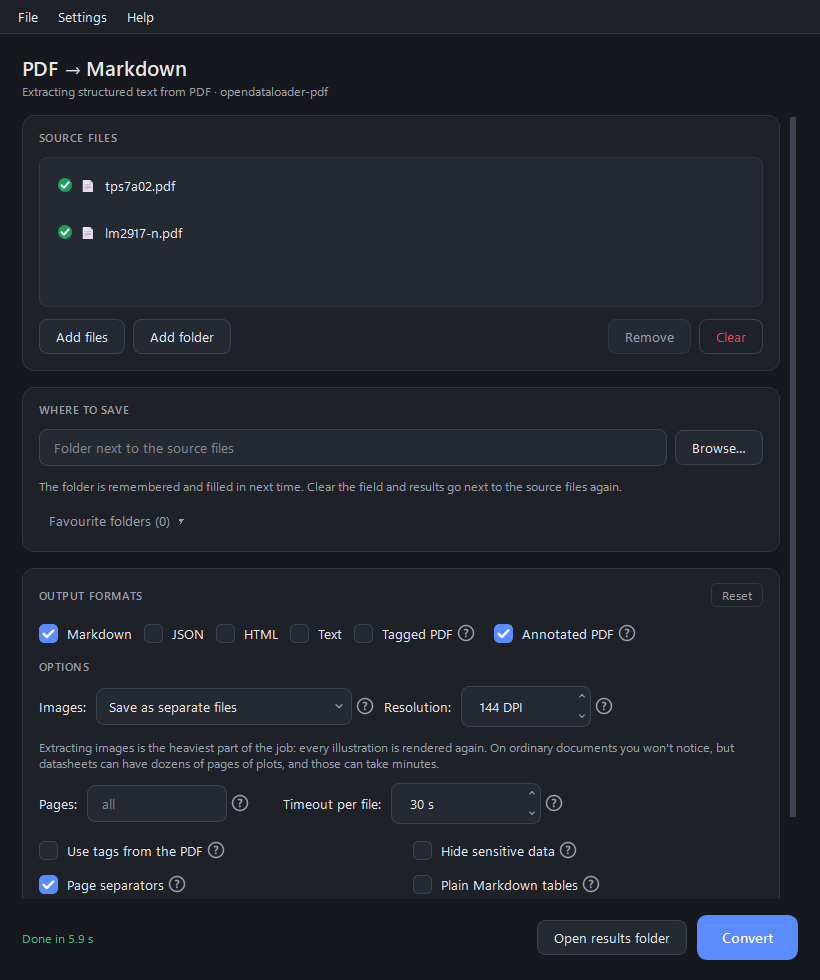
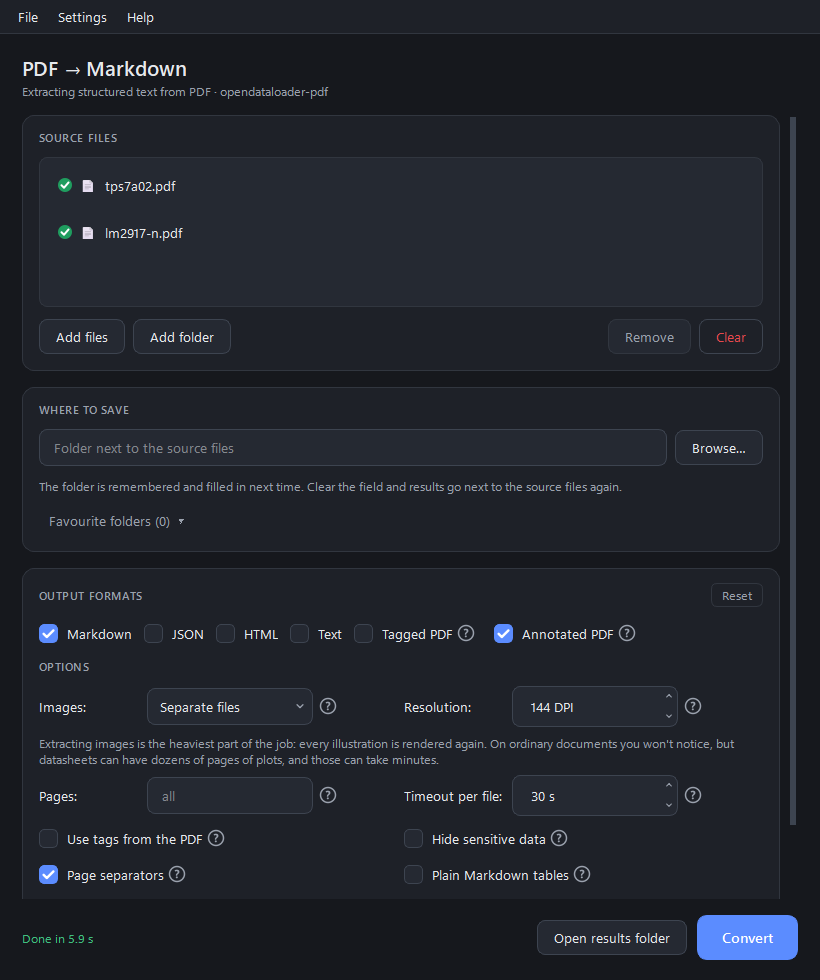
Options in two even columns with equal-sized boxes
Options and More options share one grid: label, box, (?) | label, box, (?).
Every box is 166 px, the label column takes the longest label (wrapping
past 116 px), and the checkboxes start where the labels start, so the two
sections line up with each other. Image choices got shorter names to fit
("Separate files", "In the document", "Don't save"); Polish, French,
Spanish and Italian show English for them until the pre-release pass.
Minimum window width 720 -> 760 to hold both columns in every language.

Changed region(s): [[0.0305, 0.7041, 0.8841, 0.9184], [0.8232, 0.7959, 0.8537, 0.8265]]

diff --git a/gui.py b/gui.py
@@ -534,6 +534,54 @@ def with_help(widget: QWidget, key: str) -> QWidget:
     return box
 
 
+# Every setting's box is this wide, in Options and in More options alike.
+FIELD_WIDTH = 166
+# Label column: as wide as the longest label, but no wider than this - a
+# longer one wraps onto a second line instead of pushing the boxes apart.
+LABEL_MAX_WIDTH = 116
+
+
+def settings_grid(rows: list, checks: list, labels: list[QLabel]) -> QGridLayout:
+    """Two even columns: label, box, (?) | label, box, (?).
+
+    `rows` holds pairs of (label key, widget, help key) - either may be None -
+    or a bare widget that spans the whole width. `checks` are (checkbox, help
+    key) pairs laid out two to a line, each starting where the labels start.
+    The labels are collected so the window can give them all one width, which
+    lines Options and More options up with each other.
+    """
+    grid = QGridLayout()
+    grid.setContentsMargins(0, 0, 0, 0)
+    grid.setHorizontalSpacing(6)
+    grid.setVerticalSpacing(8)
+    # 0 label, 1 box, 2 (?), 3 gap between the halves, 4 label, 5 box, 6 (?)
+    grid.setColumnMinimumWidth(3, 16)
+    grid.setColumnStretch(3, 1)
+    grid.setColumnStretch(7, 1)
+    row = 0
+    for item in rows:
+        if isinstance(item, QWidget):
+            grid.addWidget(item, row, 0, 1, 8)
+            row += 1
+            continue
+        for side, cell in enumerate(item):
+            if cell is None:
+                continue
+            key, widget, help_key = cell
+            base = side * 4
+            label = QLabel(tr(key))
+            label.setWordWrap(True)
+            labels.append(label)
+            widget.setFixedWidth(FIELD_WIDTH)
+            grid.addWidget(label, row, base)
+            grid.addWidget(widget, row, base + 1)
+            grid.addWidget(HelpMark(tr(help_key)), row, base + 2)
+        row += 1
+    for i, (box, help_key) in enumerate(checks):
+        grid.addWidget(with_help(box, help_key), row + i // 2, (i % 2) * 4, 1, 3)
+    return grid
+
+
 def eye_icon(open_: bool) -> QIcon:
     """The password field's show/hide button: an eye, struck through or not."""
     size = 32
@@ -570,21 +618,6 @@ def reset_button(tooltip_key: str) -> QPushButton:
     button.setObjectName("Small")
     button.setToolTip(tr(tooltip_key))
     return button
-
-
-def field_row(*pairs, spacing: int = 10) -> QHBoxLayout:
-    """A row of (label, widget) pairs; a bare widget is added as-is."""
-    row = QHBoxLayout()
-    row.setSpacing(spacing)
-    for item in pairs:
-        if isinstance(item, tuple):
-            text, widget = item
-            row.addWidget(QLabel(text))
-            row.addWidget(widget)
-        else:
-            row.addWidget(item)
-    row.addStretch()
-    return row
 
 
 class AboutDialog(QDialog):
@@ -672,7 +705,7 @@ class MainWindow(QWidget):
         super().__init__()
         self.setObjectName("Root")
         self.setWindowTitle(APP_NAME)
-        self.setMinimumWidth(720)
+        self.setMinimumWidth(760)
 
         self.inputs: list[str] = []
         self.thread: QThread | None = None
@@ -704,6 +737,7 @@ class MainWindow(QWidget):
         self.update_release: dict | None = None
         self._guide: GuideDialog | None = None
         self.favorites = load_favorites()
+        self._form_labels: list[QLabel] = []
         self._build_ui()
         # What every option looks like untouched - the "Reset" buttons go back
         # to this. Taken before the saved settings are applied on top.
@@ -714,6 +748,7 @@ class MainWindow(QWidget):
         self._restore_settings()
         self._sync_format_options()
         self._apply_theme()
+        self._align_labels()
         # "As in Windows" keeps following Windows while the program is open.
         hints = QGuiApplication.styleHints()
         if hasattr(hints, "colorSchemeChanged"):
@@ -764,7 +799,7 @@ class MainWindow(QWidget):
         scroll.setWidget(body)
         scroll.setWidgetResizable(True)
         scroll.setFrameShape(QFrame.Shape.NoFrame)
-        # Layouts are made to fit 720 px in every language; should a future
+        # Layouts are made to fit 760 px in every language; should a future
         # translation still overflow, a scroll bar beats silently clipped
         # buttons.
         scroll.setHorizontalScrollBarPolicy(Qt.ScrollBarPolicy.ScrollBarAsNeeded)
@@ -949,10 +984,9 @@ class MainWindow(QWidget):
 
         # -- images: the single setting that decides how long a datasheet takes
         self.image_mode = QComboBox()
-        self.image_mode.addItem(tr("images.external"), "external")
-        self.image_mode.addItem(tr("images.embedded"), "embedded")
-        self.image_mode.addItem(tr("images.off"), "off")
-        self.image_mode.setFixedWidth(256)
+        self.image_mode.addItem(tr("images.files"), "external")
+        self.image_mode.addItem(tr("images.inside"), "embedded")
+        self.image_mode.addItem(tr("images.none"), "off")
         self.image_mode.currentIndexChanged.connect(self._toggle_image_dpi)
 
         # Worth trying before turning images off entirely: 96 DPI keeps the
@@ -961,18 +995,15 @@ class MainWindow(QWidget):
         self.image_dpi.setRange(36, 600)
         self.image_dpi.setValue(IMAGE_DPI_DEFAULT)
         self.image_dpi.setSuffix(" DPI")
-        self.image_dpi.setFixedWidth(130)
 
         self.pages_edit = QLineEdit()
         self.pages_edit.setPlaceholderText(tr("pages.placeholder"))
-        self.pages_edit.setFixedWidth(140)
 
         self.timeout_spin = QSpinBox()
         self.timeout_spin.setRange(0, 36000)
         self.timeout_spin.setValue(30)
         self.timeout_spin.setSuffix(tr("timeout.suffix"))
         self.timeout_spin.setSpecialValueText(tr("timeout.none"))
-        self.timeout_spin.setFixedWidth(150)
 
         self.opt_struct = QCheckBox(tr("struct.label"))
         self.opt_sanitize = QCheckBox(tr("sanitize.label"))
@@ -983,16 +1014,22 @@ class MainWindow(QWidget):
         for box in self.format_boxes.values():
             box.toggled.connect(self._sync_format_options)
 
-        grid = QGridLayout()
-        grid.setHorizontalSpacing(24)
-        grid.setVerticalSpacing(6)
-        grid.setContentsMargins(0, 0, 0, 0)
-        grid.addWidget(with_help(self.opt_struct, "struct.tooltip"), 0, 0)
-        grid.addWidget(with_help(self.opt_sanitize, "sanitize.tooltip"), 0, 1)
-        grid.addWidget(with_help(self.opt_page_sep, "page_sep.tooltip"), 1, 0)
-        grid.addWidget(with_help(self.opt_plain_md, "plain_md.tooltip"), 1, 1)
-        grid.setColumnStretch(0, 1)
-        grid.setColumnStretch(1, 1)
+        grid = settings_grid(
+            [
+                (("images.label", self.image_mode, "images.tooltip"),
+                 ("dpi.label", self.image_dpi, "dpi.tooltip")),
+                hint(tr("images.hint")),
+                (("pages.label", self.pages_edit, "pages.tooltip"),
+                 ("timeout.label", self.timeout_spin, "timeout.tooltip")),
+            ],
+            [
+                (self.opt_struct, "struct.tooltip"),
+                (self.opt_sanitize, "sanitize.tooltip"),
+                (self.opt_page_sep, "page_sep.tooltip"),
+                (self.opt_plain_md, "plain_md.tooltip"),
+            ],
+            self._form_labels,
+        )
 
         self.more_btn = QPushButton(tr("advanced.button") + "  ▾")
         self.more_btn.setObjectName("Ghost")
@@ -1011,15 +1048,6 @@ class MainWindow(QWidget):
             section_row(tr("formats.section"), self.reset_main_btn),
             formats,
             section(tr("options.section")),
-            field_row(
-                (tr("images.label"), with_help(self.image_mode, "images.tooltip")),
-                (tr("dpi.label"), with_help(self.image_dpi, "dpi.tooltip")),
-            ),
-            hint(tr("images.hint")),
-            field_row(
-                (tr("pages.label"), with_help(self.pages_edit, "pages.tooltip")),
-                (tr("timeout.label"), with_help(self.timeout_spin, "timeout.tooltip")),
-            ),
             grid,
             more_row,
             self._advanced_panel(),
@@ -1033,34 +1061,28 @@ class MainWindow(QWidget):
         self.reading_order = QComboBox()
         self.reading_order.addItem("xycut", "xycut")
         self.reading_order.addItem(tr("reading_order.off"), "off")
-        self.reading_order.setMinimumWidth(120)
 
         self.table_method = QComboBox()
         self.table_method.addItem(tr("tables.default"), "default")
         self.table_method.addItem(tr("tables.cluster"), "cluster")
-        self.table_method.setMinimumWidth(120)
 
         self.image_format = QComboBox()
         self.image_format.addItem("PNG", "png")
         self.image_format.addItem("JPEG", "jpeg")
-        self.image_format.setMinimumWidth(120)
 
         self.threads_spin = QSpinBox()
         self.threads_spin.setRange(1, max(1, os.cpu_count() or 1))
         self.threads_spin.setValue(1)
-        self.threads_spin.setMinimumWidth(120)
 
         self.space_ratio = QDoubleSpinBox()
         self.space_ratio.setRange(0.01, 1.00)
         self.space_ratio.setSingleStep(0.01)
         self.space_ratio.setDecimals(2)
         self.space_ratio.setValue(SPACE_RATIO_DEFAULT)
-        self.space_ratio.setMinimumWidth(120)
 
         self.password_edit = QLineEdit()
         self.password_edit.setEchoMode(QLineEdit.EchoMode.Password)
         self.password_edit.setPlaceholderText(tr("password.placeholder"))
-        self.password_edit.setMinimumWidth(120)
         self.password_eye = self.password_edit.addAction(
             eye_icon(open_=True), QLineEdit.ActionPosition.TrailingPosition
         )
@@ -1074,56 +1096,34 @@ class MainWindow(QWidget):
         self.hybrid = QComboBox()
         self.hybrid.addItem(tr("hybrid.off"), None)
         self.hybrid.addItem("docling-fast", "docling-fast")
-        self.hybrid.setMinimumWidth(120)
         self.hybrid.currentIndexChanged.connect(self._toggle_hybrid)
 
         self.hybrid_url = QLineEdit()
         self.hybrid_url.setPlaceholderText(HYBRID_DEFAULT_URL)
-        self.hybrid_url.setMinimumWidth(120)
         self.hybrid_url.setEnabled(False)
 
-        grid = QGridLayout(panel)
-        grid.setContentsMargins(0, 0, 0, 0)
-        grid.setHorizontalSpacing(14)
-        grid.setVerticalSpacing(8)
-        rows = [
-            (tr("reading_order.label"), self.reading_order, "reading_order.tooltip",
-             tr("tables.label"), self.table_method, "tables.tooltip"),
-            (tr("image_format.label"), self.image_format, "image_format.tooltip",
-             tr("threads.label"), self.threads_spin, "threads.tooltip"),
-            (tr("password.label"), self.password_edit, "password.tooltip",
-             tr("hybrid.label"), self.hybrid, "hybrid.tooltip"),
-            (tr("space_ratio.label"), self.space_ratio, "space_ratio.tooltip",
-             tr("hybrid_url.label"), self.hybrid_url, "hybrid_url.tooltip"),
-        ]
-        for r, (l1, w1, h1, l2, w2, h2) in enumerate(rows):
-            grid.addWidget(QLabel(l1), r, 0)
-            grid.addWidget(with_help(w1, h1), r, 1)
-            grid.addWidget(QLabel(l2), r, 2)
-            grid.addWidget(with_help(w2, h2), r, 3)
-        grid.setColumnStretch(4, 1)
-
-        # Fields give way to long labels rather than push the card past the
-        # window: French and Spanish labels run a good third longer.
-        for field in (w for row in rows for w in (row[1], row[4])):
-            field.setMaximumWidth(200)
-
-        # Two columns, like the checkboxes above: three in a row ran past the
-        # window in the longer languages.
-        checks = QGridLayout()
-        checks.setHorizontalSpacing(24)
-        checks.setVerticalSpacing(6)
-        for i, (box, key) in enumerate(
-            (
+        grid = settings_grid(
+            [
+                (("reading_order.label", self.reading_order, "reading_order.tooltip"),
+                 ("tables.label", self.table_method, "tables.tooltip")),
+                (("image_format.label", self.image_format, "image_format.tooltip"),
+                 ("threads.label", self.threads_spin, "threads.tooltip")),
+                (("password.label", self.password_edit, "password.tooltip"),
+                 ("hybrid.label", self.hybrid, "hybrid.tooltip")),
+                (("space_ratio.label", self.space_ratio, "space_ratio.tooltip"),
+                 ("hybrid_url.label", self.hybrid_url, "hybrid_url.tooltip")),
+            ],
+            [
                 (self.opt_line_breaks, "line_breaks.tooltip"),
                 (self.opt_header_footer, "header_footer.tooltip"),
                 (self.opt_strikethrough, "strikethrough.tooltip"),
-            )
-        ):
-            checks.addWidget(with_help(box, key), i // 2, i % 2)
-        checks.setColumnStretch(0, 1)
-        checks.setColumnStretch(1, 1)
-        grid.addLayout(checks, len(rows), 0, 1, 5)
+            ],
+            self._form_labels,
+        )
+        outer = QVBoxLayout(panel)
+        outer.setContentsMargins(0, 0, 0, 0)
+        outer.setSpacing(8)
+        outer.addLayout(grid)
 
         self.reset_advanced_btn = reset_button("reset.advanced_tooltip")
         self.reset_advanced_btn.clicked.connect(
@@ -1132,7 +1132,7 @@ class MainWindow(QWidget):
         reset_row = QHBoxLayout()
         reset_row.addStretch()
         reset_row.addWidget(self.reset_advanced_btn)
-        grid.addLayout(reset_row, len(rows) + 1, 0, 1, 5)
+        outer.addLayout(reset_row)
         return panel
 
     def _output_card(self) -> QFrame:
@@ -1705,6 +1705,18 @@ class MainWindow(QWidget):
     def _toggle_advanced(self, shown: bool) -> None:
         self.advanced.setVisible(shown)
         self.more_btn.setText(tr("advanced.button") + ("  ▴" if shown else "  ▾"))
+
+    def _align_labels(self) -> None:
+        """One label width for both grids, so Options and More options line
+        up. Measured with the styled font - the stylesheet sets the size, so
+        this has to come after the theme is applied."""
+        widths = []
+        for label in self._form_labels:
+            label.ensurePolished()
+            widths.append(label.fontMetrics().horizontalAdvance(label.text()))
+        width = min(LABEL_MAX_WIDTH, max(widths) + 2)
+        for label in self._form_labels:
+            label.setFixedWidth(width)
 
     def _sync_format_options(self, *_) -> None:
         """Grey out what the ticked formats would ignore."""

diff --git a/tests/test_i18n.py b/tests/test_i18n.py
@@ -91,7 +91,7 @@ def test_window_builds_in_every_language(qapp, settings_file, code):
     try:
         assert w.run_btn.text() == table["action.convert"]
         assert w.format_boxes["pdf"].text() == table["format.pdf"]
-        assert w.image_mode.itemText(0) == table["images.external"]
+        assert w.image_mode.itemText(0) == i18n.tr("images.files")
         assert w.language_actions[code].isChecked()
         assert w._collect_options()["format"] == "markdown"
     finally:

diff --git a/docs/guide.ru.md b/docs/guide.ru.md
@@ -42,8 +42,9 @@ Java, идёт в комплекте.
 
 ## Опции
 
-- **Картинки** — сохранять отдельными файлами, встроить в документ или не
-  сохранять. Картинки — самая медленная часть работы.
+- **Картинки** — **Отдельные файлы**, **Внутри документа** (прямо в .md,
+  один большой файл) или **Не сохранять**. Картинки — самая медленная часть
+  работы.
 - **Разрешение** — чёткость картинок. Для графиков обычно хватает 96 DPI.
 - **Страницы** — например `1-12` или `1,3,5-7`. Пусто — все страницы.
 - **Таймаут на файл** — если файл не уложился, он пробуется ещё раз без

diff --git a/docs/guide.en.md b/docs/guide.en.md
@@ -43,8 +43,8 @@ You can tick several formats at once.
 
 ## Options
 
-- **Images** — save as separate files, embed in the document, or don't save.
-  Images are the slowest part of the work.
+- **Images** — **Separate files**, **In the document** (inside the .md, one
+  big file) or **Don't save**. Images are the slowest part of the work.
 - **Resolution** — how sharp the images are. 96 DPI is usually enough for
   plots.
 - **Pages** — e.g. `1-12` or `1,3,5-7`. Empty means all pages.
